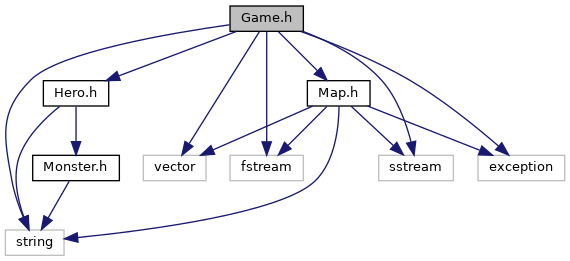
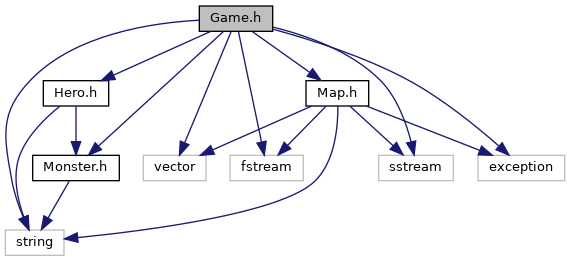
Update gh-pages to output generated at a4825b8

diff --git a/Game_8h_source.html b/Game_8h_source.html
@@ -79,85 +79,87 @@ $(function() {
 <div class="line"><a name="l00022"></a><span class="lineno">   22</span>&#160; </div>
 <div class="line"><a name="l00023"></a><span class="lineno">   23</span>&#160;<span class="preprocessor">#include &quot;<a class="code" href="Hero_8h.html">Hero.h</a>&quot;</span></div>
 <div class="line"><a name="l00024"></a><span class="lineno">   24</span>&#160;<span class="preprocessor">#include &quot;<a class="code" href="Map_8h.html">Map.h</a>&quot;</span></div>
-<div class="line"><a name="l00025"></a><span class="lineno">   25</span>&#160; </div>
-<div class="line"><a name="l00026"></a><span class="lineno"><a class="line" href="classGame.html">   26</a></span>&#160;<span class="keyword">class </span><a class="code" href="classGame.html">Game</a></div>
-<div class="line"><a name="l00027"></a><span class="lineno">   27</span>&#160;{</div>
-<div class="line"><a name="l00028"></a><span class="lineno">   28</span>&#160; <span class="keyword">private</span>:</div>
-<div class="line"><a name="l00029"></a><span class="lineno">   29</span>&#160;    <a class="code" href="classMap.html">Map</a> map;</div>
-<div class="line"><a name="l00030"></a><span class="lineno">   30</span>&#160; <span class="keyword">public</span>:</div>
-<div class="line"><a name="l00031"></a><span class="lineno">   31</span>&#160;    <a class="code" href="classGame.html">Game</a>(); <span class="comment">// Empty Game</span></div>
-<div class="line"><a name="l00032"></a><span class="lineno">   32</span>&#160;    <a class="code" href="classGame.html">Game</a>(std::string); <span class="comment">// Game with the Map initialized</span></div>
-<div class="line"><a name="l00033"></a><span class="lineno">   33</span>&#160;    <span class="keywordtype">void</span> setMap(<a class="code" href="classMap.html">Map</a>); <span class="comment">// Set the map</span></div>
-<div class="line"><a name="l00034"></a><span class="lineno">   34</span>&#160;    <span class="keywordtype">void</span> putHero(<a class="code" href="classHero.html">Hero</a>, <span class="keywordtype">int</span>, <span class="keywordtype">int</span>);</div>
-<div class="line"><a name="l00035"></a><span class="lineno">   35</span>&#160;    <span class="keywordtype">void</span> putMonster(<a class="code" href="classMonster.html">Monster</a>, <span class="keywordtype">int</span>, <span class="keywordtype">int</span>);</div>
-<div class="line"><a name="l00036"></a><span class="lineno">   36</span>&#160;    <span class="keywordtype">void</span> run();</div>
-<div class="line"><a name="l00037"></a><span class="lineno">   37</span>&#160; </div>
-<div class="line"><a name="l00038"></a><span class="lineno"><a class="line" href="classGame_1_1OccupiedException.html">   38</a></span>&#160;    <span class="keyword">class </span><a class="code" href="classGame_1_1OccupiedException.html">OccupiedException</a> : std::exception</div>
-<div class="line"><a name="l00039"></a><span class="lineno">   39</span>&#160;    {</div>
-<div class="line"><a name="l00040"></a><span class="lineno">   40</span>&#160;        <span class="keyword">public</span>:</div>
-<div class="line"><a name="l00045"></a><span class="lineno"><a class="line" href="classGame_1_1OccupiedException.html#a2d06f1e94c0d870fa9297d690495c455">   45</a></span>&#160;            <a class="code" href="classGame_1_1OccupiedException.html#a2d06f1e94c0d870fa9297d690495c455">OccupiedException</a>(){}</div>
-<div class="line"><a name="l00046"></a><span class="lineno">   46</span>&#160;    };</div>
-<div class="line"><a name="l00047"></a><span class="lineno"><a class="line" href="classGame_1_1AlreadyHasHeroException.html">   47</a></span>&#160;    <span class="keyword">class </span><a class="code" href="classGame_1_1AlreadyHasHeroException.html">AlreadyHasHeroException</a> : std::exception</div>
-<div class="line"><a name="l00048"></a><span class="lineno">   48</span>&#160;    {</div>
-<div class="line"><a name="l00049"></a><span class="lineno">   49</span>&#160;        <span class="keyword">public</span>:</div>
-<div class="line"><a name="l00054"></a><span class="lineno"><a class="line" href="classGame_1_1AlreadyHasHeroException.html#a661fe174e6ed027c3ebe5a5c13bf5c55">   54</a></span>&#160;            <a class="code" href="classGame_1_1AlreadyHasHeroException.html#a661fe174e6ed027c3ebe5a5c13bf5c55">AlreadyHasHeroException</a>(){}</div>
-<div class="line"><a name="l00055"></a><span class="lineno">   55</span>&#160;    };</div>
-<div class="line"><a name="l00056"></a><span class="lineno"><a class="line" href="classGame_1_1AlreadyHasUnitsException.html">   56</a></span>&#160;    <span class="keyword">class </span><a class="code" href="classGame_1_1AlreadyHasUnitsException.html">AlreadyHasUnitsException</a> : std::exception</div>
-<div class="line"><a name="l00057"></a><span class="lineno">   57</span>&#160;    {</div>
-<div class="line"><a name="l00058"></a><span class="lineno">   58</span>&#160;        <span class="keyword">public</span>:</div>
-<div class="line"><a name="l00064"></a><span class="lineno"><a class="line" href="classGame_1_1AlreadyHasUnitsException.html#a538b74874c5db6e2f7d916275cfe3e98">   64</a></span>&#160;            <a class="code" href="classGame_1_1AlreadyHasUnitsException.html#a538b74874c5db6e2f7d916275cfe3e98">AlreadyHasUnitsException</a>(){}</div>
-<div class="line"><a name="l00065"></a><span class="lineno">   65</span>&#160;    };</div>
-<div class="line"><a name="l00066"></a><span class="lineno">   66</span>&#160;    </div>
-<div class="line"><a name="l00067"></a><span class="lineno"><a class="line" href="classGame_1_1NotInitializedException.html">   67</a></span>&#160;    <span class="keyword">class </span><a class="code" href="classGame_1_1NotInitializedException.html">NotInitializedException</a> : std::exception</div>
-<div class="line"><a name="l00068"></a><span class="lineno">   68</span>&#160;    {</div>
-<div class="line"><a name="l00069"></a><span class="lineno">   69</span>&#160;        <span class="keyword">public</span>:</div>
-<div class="line"><a name="l00076"></a><span class="lineno"><a class="line" href="classGame_1_1NotInitializedException.html#a940350c425f5d08a07fdeabc3814e552">   76</a></span>&#160;            <a class="code" href="classGame_1_1NotInitializedException.html#a940350c425f5d08a07fdeabc3814e552">NotInitializedException</a>(){}</div>
-<div class="line"><a name="l00077"></a><span class="lineno">   77</span>&#160;    };</div>
-<div class="line"><a name="l00078"></a><span class="lineno">   78</span>&#160;    </div>
-<div class="line"><a name="l00079"></a><span class="lineno"><a class="line" href="classGame_1_1GameAlreadyStartedException.html">   79</a></span>&#160;    <span class="keyword">class </span><a class="code" href="classGame_1_1GameAlreadyStartedException.html">GameAlreadyStartedException</a> : std::exception</div>
-<div class="line"><a name="l00080"></a><span class="lineno">   80</span>&#160;    {</div>
-<div class="line"><a name="l00081"></a><span class="lineno">   81</span>&#160;        <span class="keyword">public</span>:</div>
-<div class="line"><a name="l00087"></a><span class="lineno"><a class="line" href="classGame_1_1GameAlreadyStartedException.html#a173b886c1b6d0adf4586974b896859bd">   87</a></span>&#160;            <a class="code" href="classGame_1_1GameAlreadyStartedException.html#a173b886c1b6d0adf4586974b896859bd">GameAlreadyStartedException</a>(){}</div>
-<div class="line"><a name="l00088"></a><span class="lineno">   88</span>&#160;    };</div>
-<div class="line"><a name="l00089"></a><span class="lineno">   89</span>&#160; </div>
-<div class="line"><a name="l00090"></a><span class="lineno">   90</span>&#160;};</div>
-<div class="line"><a name="l00091"></a><span class="lineno">   91</span>&#160; </div>
-<div class="line"><a name="l00092"></a><span class="lineno">   92</span>&#160;    <span class="comment">/* </span></div>
-<div class="line"><a name="l00093"></a><span class="lineno">   93</span>&#160;<span class="comment">    </span></div>
-<div class="line"><a name="l00094"></a><span class="lineno">   94</span>&#160;<span class="comment">Ha minden rendben van, elindit egy loop-ot egeszen addig, amig van meg Monster eletben. </span></div>
-<div class="line"><a name="l00095"></a><span class="lineno">   95</span>&#160;<span class="comment">Ha mindegyik monster le lett gyakva, akkor egy &quot;{hero.name} cleared the map. uzenetet kiir, es befejezi a futast.</span></div>
-<div class="line"><a name="l00096"></a><span class="lineno">   96</span>&#160;<span class="comment"></span> </div>
-<div class="line"><a name="l00097"></a><span class="lineno">   97</span>&#160;<span class="comment">Monstert viszont barmikor lehet feltenni, es egy lefutott run() utan akar ujra is lehet inditani.</span></div>
-<div class="line"><a name="l00098"></a><span class="lineno">   98</span>&#160;<span class="comment"></span> </div>
-<div class="line"><a name="l00099"></a><span class="lineno">   99</span>&#160;<span class="comment">A loop-ban north, south, east, west parancsokat var a stadard bemenetrol a program, amivel a Herot mozgatja, ha lehetseges (falra nem tud menni, palyarol nem lehet lemenni). </span></div>
-<div class="line"><a name="l00100"></a><span class="lineno">  100</span>&#160;<span class="comment">Ha olyan mezore lep a hero, ahol monsterek vannak, akkor azokkal megcsatazik. (A monsterekkel abban a sorrendben, ahogy a jatekhoz hozza lettek adva.)</span></div>
-<div class="line"><a name="l00101"></a><span class="lineno">  101</span>&#160;<span class="comment"></span> </div>
+<div class="line"><a name="l00025"></a><span class="lineno">   25</span>&#160;<span class="preprocessor">#include &quot;<a class="code" href="Monster_8h.html">Monster.h</a>&quot;</span></div>
+<div class="line"><a name="l00026"></a><span class="lineno">   26</span>&#160; </div>
+<div class="line"><a name="l00027"></a><span class="lineno"><a class="line" href="classGame.html">   27</a></span>&#160;<span class="keyword">class </span><a class="code" href="classGame.html">Game</a></div>
+<div class="line"><a name="l00028"></a><span class="lineno">   28</span>&#160;{</div>
+<div class="line"><a name="l00029"></a><span class="lineno">   29</span>&#160; <span class="keyword">private</span>:</div>
+<div class="line"><a name="l00030"></a><span class="lineno">   30</span>&#160;    <a class="code" href="classMap.html">Map</a> map;</div>
+<div class="line"><a name="l00031"></a><span class="lineno">   31</span>&#160; <span class="keyword">public</span>:</div>
+<div class="line"><a name="l00032"></a><span class="lineno">   32</span>&#160;    <a class="code" href="classGame.html">Game</a>(); <span class="comment">// Empty Game</span></div>
+<div class="line"><a name="l00033"></a><span class="lineno">   33</span>&#160;    <a class="code" href="classGame.html">Game</a>(std::string); <span class="comment">// Game with the Map initialized</span></div>
+<div class="line"><a name="l00034"></a><span class="lineno">   34</span>&#160;    <span class="keywordtype">void</span> setMap(<a class="code" href="classMap.html">Map</a>); <span class="comment">// Set the map</span></div>
+<div class="line"><a name="l00035"></a><span class="lineno">   35</span>&#160;    <span class="keywordtype">void</span> putHero(<a class="code" href="classHero.html">Hero</a>, <span class="keywordtype">int</span>, <span class="keywordtype">int</span>);</div>
+<div class="line"><a name="l00036"></a><span class="lineno">   36</span>&#160;    <span class="keywordtype">void</span> putMonster(<a class="code" href="classMonster.html">Monster</a>, <span class="keywordtype">int</span>, <span class="keywordtype">int</span>);</div>
+<div class="line"><a name="l00037"></a><span class="lineno">   37</span>&#160;    <span class="keywordtype">void</span> run();</div>
+<div class="line"><a name="l00038"></a><span class="lineno">   38</span>&#160; </div>
+<div class="line"><a name="l00039"></a><span class="lineno"><a class="line" href="classGame_1_1OccupiedException.html">   39</a></span>&#160;    <span class="keyword">class </span><a class="code" href="classGame_1_1OccupiedException.html">OccupiedException</a> : std::exception</div>
+<div class="line"><a name="l00040"></a><span class="lineno">   40</span>&#160;    {</div>
+<div class="line"><a name="l00041"></a><span class="lineno">   41</span>&#160;        <span class="keyword">public</span>:</div>
+<div class="line"><a name="l00046"></a><span class="lineno"><a class="line" href="classGame_1_1OccupiedException.html#a2d06f1e94c0d870fa9297d690495c455">   46</a></span>&#160;            <a class="code" href="classGame_1_1OccupiedException.html#a2d06f1e94c0d870fa9297d690495c455">OccupiedException</a>(){}</div>
+<div class="line"><a name="l00047"></a><span class="lineno">   47</span>&#160;    };</div>
+<div class="line"><a name="l00048"></a><span class="lineno"><a class="line" href="classGame_1_1AlreadyHasHeroException.html">   48</a></span>&#160;    <span class="keyword">class </span><a class="code" href="classGame_1_1AlreadyHasHeroException.html">AlreadyHasHeroException</a> : std::exception</div>
+<div class="line"><a name="l00049"></a><span class="lineno">   49</span>&#160;    {</div>
+<div class="line"><a name="l00050"></a><span class="lineno">   50</span>&#160;        <span class="keyword">public</span>:</div>
+<div class="line"><a name="l00055"></a><span class="lineno"><a class="line" href="classGame_1_1AlreadyHasHeroException.html#a661fe174e6ed027c3ebe5a5c13bf5c55">   55</a></span>&#160;            <a class="code" href="classGame_1_1AlreadyHasHeroException.html#a661fe174e6ed027c3ebe5a5c13bf5c55">AlreadyHasHeroException</a>(){}</div>
+<div class="line"><a name="l00056"></a><span class="lineno">   56</span>&#160;    };</div>
+<div class="line"><a name="l00057"></a><span class="lineno"><a class="line" href="classGame_1_1AlreadyHasUnitsException.html">   57</a></span>&#160;    <span class="keyword">class </span><a class="code" href="classGame_1_1AlreadyHasUnitsException.html">AlreadyHasUnitsException</a> : std::exception</div>
+<div class="line"><a name="l00058"></a><span class="lineno">   58</span>&#160;    {</div>
+<div class="line"><a name="l00059"></a><span class="lineno">   59</span>&#160;        <span class="keyword">public</span>:</div>
+<div class="line"><a name="l00065"></a><span class="lineno"><a class="line" href="classGame_1_1AlreadyHasUnitsException.html#a538b74874c5db6e2f7d916275cfe3e98">   65</a></span>&#160;            <a class="code" href="classGame_1_1AlreadyHasUnitsException.html#a538b74874c5db6e2f7d916275cfe3e98">AlreadyHasUnitsException</a>(){}</div>
+<div class="line"><a name="l00066"></a><span class="lineno">   66</span>&#160;    };</div>
+<div class="line"><a name="l00067"></a><span class="lineno">   67</span>&#160;    </div>
+<div class="line"><a name="l00068"></a><span class="lineno"><a class="line" href="classGame_1_1NotInitializedException.html">   68</a></span>&#160;    <span class="keyword">class </span><a class="code" href="classGame_1_1NotInitializedException.html">NotInitializedException</a> : std::exception</div>
+<div class="line"><a name="l00069"></a><span class="lineno">   69</span>&#160;    {</div>
+<div class="line"><a name="l00070"></a><span class="lineno">   70</span>&#160;        <span class="keyword">public</span>:</div>
+<div class="line"><a name="l00077"></a><span class="lineno"><a class="line" href="classGame_1_1NotInitializedException.html#a940350c425f5d08a07fdeabc3814e552">   77</a></span>&#160;            <a class="code" href="classGame_1_1NotInitializedException.html#a940350c425f5d08a07fdeabc3814e552">NotInitializedException</a>(){}</div>
+<div class="line"><a name="l00078"></a><span class="lineno">   78</span>&#160;    };</div>
+<div class="line"><a name="l00079"></a><span class="lineno">   79</span>&#160;    </div>
+<div class="line"><a name="l00080"></a><span class="lineno"><a class="line" href="classGame_1_1GameAlreadyStartedException.html">   80</a></span>&#160;    <span class="keyword">class </span><a class="code" href="classGame_1_1GameAlreadyStartedException.html">GameAlreadyStartedException</a> : std::exception</div>
+<div class="line"><a name="l00081"></a><span class="lineno">   81</span>&#160;    {</div>
+<div class="line"><a name="l00082"></a><span class="lineno">   82</span>&#160;        <span class="keyword">public</span>:</div>
+<div class="line"><a name="l00088"></a><span class="lineno"><a class="line" href="classGame_1_1GameAlreadyStartedException.html#a173b886c1b6d0adf4586974b896859bd">   88</a></span>&#160;            <a class="code" href="classGame_1_1GameAlreadyStartedException.html#a173b886c1b6d0adf4586974b896859bd">GameAlreadyStartedException</a>(){}</div>
+<div class="line"><a name="l00089"></a><span class="lineno">   89</span>&#160;    };</div>
+<div class="line"><a name="l00090"></a><span class="lineno">   90</span>&#160; </div>
+<div class="line"><a name="l00091"></a><span class="lineno">   91</span>&#160;};</div>
+<div class="line"><a name="l00092"></a><span class="lineno">   92</span>&#160; </div>
+<div class="line"><a name="l00093"></a><span class="lineno">   93</span>&#160;    <span class="comment">/* </span></div>
+<div class="line"><a name="l00094"></a><span class="lineno">   94</span>&#160;<span class="comment">    </span></div>
+<div class="line"><a name="l00095"></a><span class="lineno">   95</span>&#160;<span class="comment">Ha minden rendben van, elindit egy loop-ot egeszen addig, amig van meg Monster eletben. </span></div>
+<div class="line"><a name="l00096"></a><span class="lineno">   96</span>&#160;<span class="comment">Ha mindegyik monster le lett gyakva, akkor egy &quot;{hero.name} cleared the map. uzenetet kiir, es befejezi a futast.</span></div>
+<div class="line"><a name="l00097"></a><span class="lineno">   97</span>&#160;<span class="comment"></span> </div>
+<div class="line"><a name="l00098"></a><span class="lineno">   98</span>&#160;<span class="comment">Monstert viszont barmikor lehet feltenni, es egy lefutott run() utan akar ujra is lehet inditani.</span></div>
+<div class="line"><a name="l00099"></a><span class="lineno">   99</span>&#160;<span class="comment"></span> </div>
+<div class="line"><a name="l00100"></a><span class="lineno">  100</span>&#160;<span class="comment">A loop-ban north, south, east, west parancsokat var a stadard bemenetrol a program, amivel a Herot mozgatja, ha lehetseges (falra nem tud menni, palyarol nem lehet lemenni). </span></div>
+<div class="line"><a name="l00101"></a><span class="lineno">  101</span>&#160;<span class="comment">Ha olyan mezore lep a hero, ahol monsterek vannak, akkor azokkal megcsatazik. (A monsterekkel abban a sorrendben, ahogy a jatekhoz hozza lettek adva.)</span></div>
 <div class="line"><a name="l00102"></a><span class="lineno">  102</span>&#160;<span class="comment"></span> </div>
-<div class="line"><a name="l00103"></a><span class="lineno">  103</span>&#160;<span class="comment">Ha a hosunk meghal, akkor egy The hero died. kimenettel veget er a loop, es ebben az esetben Addig nem lehet ujra elinditani, amig egy masik Herot fel nem pakolunk ra.</span></div>
-<div class="line"><a name="l00104"></a><span class="lineno">  104</span>&#160;<span class="comment"></span> </div>
-<div class="line"><a name="l00105"></a><span class="lineno">  105</span>&#160;<span class="comment">Exceptions to implement for set and put methods.</span></div>
-<div class="line"><a name="l00106"></a><span class="lineno">  106</span>&#160;<span class="comment"></span> </div>
-<div class="line"><a name="l00107"></a><span class="lineno">  107</span>&#160;<span class="comment">Ha meg nincs terkep beallitva, akkor az elsot dobja a ket put. </span></div>
-<div class="line"><a name="l00108"></a><span class="lineno">  108</span>&#160;<span class="comment"></span> </div>
-<div class="line"><a name="l00109"></a><span class="lineno">  109</span>&#160;<span class="comment">};</span></div>
-<div class="line"><a name="l00110"></a><span class="lineno">  110</span>&#160;<span class="comment">*/</span></div>
-<div class="line"><a name="l00111"></a><span class="lineno">  111</span>&#160;<span class="preprocessor">#endif // GAME_HEADER</span></div>
+<div class="line"><a name="l00103"></a><span class="lineno">  103</span>&#160;<span class="comment"></span> </div>
+<div class="line"><a name="l00104"></a><span class="lineno">  104</span>&#160;<span class="comment">Ha a hosunk meghal, akkor egy The hero died. kimenettel veget er a loop, es ebben az esetben Addig nem lehet ujra elinditani, amig egy masik Herot fel nem pakolunk ra.</span></div>
+<div class="line"><a name="l00105"></a><span class="lineno">  105</span>&#160;<span class="comment"></span> </div>
+<div class="line"><a name="l00106"></a><span class="lineno">  106</span>&#160;<span class="comment">Exceptions to implement for set and put methods.</span></div>
+<div class="line"><a name="l00107"></a><span class="lineno">  107</span>&#160;<span class="comment"></span> </div>
+<div class="line"><a name="l00108"></a><span class="lineno">  108</span>&#160;<span class="comment">Ha meg nincs terkep beallitva, akkor az elsot dobja a ket put. </span></div>
+<div class="line"><a name="l00109"></a><span class="lineno">  109</span>&#160;<span class="comment"></span> </div>
+<div class="line"><a name="l00110"></a><span class="lineno">  110</span>&#160;<span class="comment">};</span></div>
+<div class="line"><a name="l00111"></a><span class="lineno">  111</span>&#160;<span class="comment">*/</span></div>
+<div class="line"><a name="l00112"></a><span class="lineno">  112</span>&#160;<span class="preprocessor">#endif // GAME_HEADER</span></div>
 </div><!-- fragment --></div><!-- contents -->
-<div class="ttc" id="aclassGame_1_1AlreadyHasHeroException_html"><div class="ttname"><a href="classGame_1_1AlreadyHasHeroException.html">Game::AlreadyHasHeroException</a></div><div class="ttdef"><b>Definition:</b> Game.h:47</div></div>
-<div class="ttc" id="aclassGame_1_1GameAlreadyStartedException_html_a173b886c1b6d0adf4586974b896859bd"><div class="ttname"><a href="classGame_1_1GameAlreadyStartedException.html#a173b886c1b6d0adf4586974b896859bd">Game::GameAlreadyStartedException::GameAlreadyStartedException</a></div><div class="ttdeci">GameAlreadyStartedException()</div><div class="ttdef"><b>Definition:</b> Game.h:87</div></div>
+<div class="ttc" id="aclassGame_1_1AlreadyHasHeroException_html"><div class="ttname"><a href="classGame_1_1AlreadyHasHeroException.html">Game::AlreadyHasHeroException</a></div><div class="ttdef"><b>Definition:</b> Game.h:48</div></div>
+<div class="ttc" id="aclassGame_1_1GameAlreadyStartedException_html_a173b886c1b6d0adf4586974b896859bd"><div class="ttname"><a href="classGame_1_1GameAlreadyStartedException.html#a173b886c1b6d0adf4586974b896859bd">Game::GameAlreadyStartedException::GameAlreadyStartedException</a></div><div class="ttdeci">GameAlreadyStartedException()</div><div class="ttdef"><b>Definition:</b> Game.h:88</div></div>
 <div class="ttc" id="aMap_8h_html"><div class="ttname"><a href="Map_8h.html">Map.h</a></div><div class="ttdoc">Map class.</div></div>
 <div class="ttc" id="aclassHero_html"><div class="ttname"><a href="classHero.html">Hero</a></div><div class="ttdef"><b>Definition:</b> Hero.h:20</div></div>
-<div class="ttc" id="aclassGame_1_1GameAlreadyStartedException_html"><div class="ttname"><a href="classGame_1_1GameAlreadyStartedException.html">Game::GameAlreadyStartedException</a></div><div class="ttdef"><b>Definition:</b> Game.h:79</div></div>
-<div class="ttc" id="aclassGame_1_1AlreadyHasHeroException_html_a661fe174e6ed027c3ebe5a5c13bf5c55"><div class="ttname"><a href="classGame_1_1AlreadyHasHeroException.html#a661fe174e6ed027c3ebe5a5c13bf5c55">Game::AlreadyHasHeroException::AlreadyHasHeroException</a></div><div class="ttdeci">AlreadyHasHeroException()</div><div class="ttdef"><b>Definition:</b> Game.h:54</div></div>
-<div class="ttc" id="aclassGame_1_1OccupiedException_html"><div class="ttname"><a href="classGame_1_1OccupiedException.html">Game::OccupiedException</a></div><div class="ttdef"><b>Definition:</b> Game.h:38</div></div>
-<div class="ttc" id="aclassGame_1_1AlreadyHasUnitsException_html"><div class="ttname"><a href="classGame_1_1AlreadyHasUnitsException.html">Game::AlreadyHasUnitsException</a></div><div class="ttdef"><b>Definition:</b> Game.h:56</div></div>
-<div class="ttc" id="aclassGame_1_1NotInitializedException_html"><div class="ttname"><a href="classGame_1_1NotInitializedException.html">Game::NotInitializedException</a></div><div class="ttdef"><b>Definition:</b> Game.h:67</div></div>
+<div class="ttc" id="aclassGame_1_1GameAlreadyStartedException_html"><div class="ttname"><a href="classGame_1_1GameAlreadyStartedException.html">Game::GameAlreadyStartedException</a></div><div class="ttdef"><b>Definition:</b> Game.h:80</div></div>
+<div class="ttc" id="aclassGame_1_1AlreadyHasHeroException_html_a661fe174e6ed027c3ebe5a5c13bf5c55"><div class="ttname"><a href="classGame_1_1AlreadyHasHeroException.html#a661fe174e6ed027c3ebe5a5c13bf5c55">Game::AlreadyHasHeroException::AlreadyHasHeroException</a></div><div class="ttdeci">AlreadyHasHeroException()</div><div class="ttdef"><b>Definition:</b> Game.h:55</div></div>
+<div class="ttc" id="aclassGame_1_1OccupiedException_html"><div class="ttname"><a href="classGame_1_1OccupiedException.html">Game::OccupiedException</a></div><div class="ttdef"><b>Definition:</b> Game.h:39</div></div>
+<div class="ttc" id="aclassGame_1_1AlreadyHasUnitsException_html"><div class="ttname"><a href="classGame_1_1AlreadyHasUnitsException.html">Game::AlreadyHasUnitsException</a></div><div class="ttdef"><b>Definition:</b> Game.h:57</div></div>
+<div class="ttc" id="aclassGame_1_1NotInitializedException_html"><div class="ttname"><a href="classGame_1_1NotInitializedException.html">Game::NotInitializedException</a></div><div class="ttdef"><b>Definition:</b> Game.h:68</div></div>
 <div class="ttc" id="aclassMonster_html"><div class="ttname"><a href="classMonster.html">Monster</a></div><div class="ttdef"><b>Definition:</b> Monster.h:19</div></div>
-<div class="ttc" id="aclassGame_1_1AlreadyHasUnitsException_html_a538b74874c5db6e2f7d916275cfe3e98"><div class="ttname"><a href="classGame_1_1AlreadyHasUnitsException.html#a538b74874c5db6e2f7d916275cfe3e98">Game::AlreadyHasUnitsException::AlreadyHasUnitsException</a></div><div class="ttdeci">AlreadyHasUnitsException()</div><div class="ttdef"><b>Definition:</b> Game.h:64</div></div>
-<div class="ttc" id="aclassGame_1_1NotInitializedException_html_a940350c425f5d08a07fdeabc3814e552"><div class="ttname"><a href="classGame_1_1NotInitializedException.html#a940350c425f5d08a07fdeabc3814e552">Game::NotInitializedException::NotInitializedException</a></div><div class="ttdeci">NotInitializedException()</div><div class="ttdef"><b>Definition:</b> Game.h:76</div></div>
+<div class="ttc" id="aclassGame_1_1AlreadyHasUnitsException_html_a538b74874c5db6e2f7d916275cfe3e98"><div class="ttname"><a href="classGame_1_1AlreadyHasUnitsException.html#a538b74874c5db6e2f7d916275cfe3e98">Game::AlreadyHasUnitsException::AlreadyHasUnitsException</a></div><div class="ttdeci">AlreadyHasUnitsException()</div><div class="ttdef"><b>Definition:</b> Game.h:65</div></div>
+<div class="ttc" id="aMonster_8h_html"><div class="ttname"><a href="Monster_8h.html">Monster.h</a></div><div class="ttdoc">Monster class.</div></div>
+<div class="ttc" id="aclassGame_1_1NotInitializedException_html_a940350c425f5d08a07fdeabc3814e552"><div class="ttname"><a href="classGame_1_1NotInitializedException.html#a940350c425f5d08a07fdeabc3814e552">Game::NotInitializedException::NotInitializedException</a></div><div class="ttdeci">NotInitializedException()</div><div class="ttdef"><b>Definition:</b> Game.h:77</div></div>
 <div class="ttc" id="aclassMap_html"><div class="ttname"><a href="classMap.html">Map</a></div><div class="ttdef"><b>Definition:</b> Map.h:23</div></div>
-<div class="ttc" id="aclassGame_html"><div class="ttname"><a href="classGame.html">Game</a></div><div class="ttdef"><b>Definition:</b> Game.h:26</div></div>
-<div class="ttc" id="aclassGame_1_1OccupiedException_html_a2d06f1e94c0d870fa9297d690495c455"><div class="ttname"><a href="classGame_1_1OccupiedException.html#a2d06f1e94c0d870fa9297d690495c455">Game::OccupiedException::OccupiedException</a></div><div class="ttdeci">OccupiedException()</div><div class="ttdoc">Falra nem kerulhet se Monster se Hero. Ugyanarra a szabad mezore azonban kerulhetnek egyszerre,...</div><div class="ttdef"><b>Definition:</b> Game.h:45</div></div>
+<div class="ttc" id="aclassGame_html"><div class="ttname"><a href="classGame.html">Game</a></div><div class="ttdef"><b>Definition:</b> Game.h:27</div></div>
+<div class="ttc" id="aclassGame_1_1OccupiedException_html_a2d06f1e94c0d870fa9297d690495c455"><div class="ttname"><a href="classGame_1_1OccupiedException.html#a2d06f1e94c0d870fa9297d690495c455">Game::OccupiedException::OccupiedException</a></div><div class="ttdeci">OccupiedException()</div><div class="ttdoc">Falra nem kerulhet se Monster se Hero. Ugyanarra a szabad mezore azonban kerulhetnek egyszerre,...</div><div class="ttdef"><b>Definition:</b> Game.h:46</div></div>
 <div class="ttc" id="aHero_8h_html"><div class="ttname"><a href="Hero_8h.html">Hero.h</a></div><div class="ttdoc">Hero class.</div></div>
 <!-- start footer part -->
 <hr class="footer"/><address class="footer"><small>

diff --git a/Game_8h.html b/Game_8h.html
@@ -79,20 +79,21 @@ $(function() {
 <code>#include &lt;exception&gt;</code><br />
 <code>#include &quot;<a class="el" href="Hero_8h_source.html">Hero.h</a>&quot;</code><br />
 <code>#include &quot;<a class="el" href="Map_8h_source.html">Map.h</a>&quot;</code><br />
+<code>#include &quot;<a class="el" href="Monster_8h_source.html">Monster.h</a>&quot;</code><br />
 </div><div class="textblock"><div class="dynheader">
 Include dependency graph for Game.h:</div>
 <div class="dyncontent">
 <div class="center"><img src="Game_8h__incl.png" border="0" usemap="#Game_8h" alt=""/></div>
 <map name="Game_8h" id="Game_8h">
-<area shape="rect" title="Game class." alt="" coords="230,5,303,32"/>
+<area shape="rect" title="Game class." alt="" coords="199,5,273,32"/>
 <area shape="rect" title=" " alt="" coords="5,229,64,256"/>
 <area shape="rect" title=" " alt="" coords="143,155,206,181"/>
 <area shape="rect" title=" " alt="" coords="230,155,303,181"/>
 <area shape="rect" title=" " alt="" coords="379,155,453,181"/>
 <area shape="rect" title=" " alt="" coords="478,155,565,181"/>
 <area shape="rect" href="Hero_8h.html" title="Hero class." alt="" coords="43,80,109,107"/>
-<area shape="rect" href="Map_8h.html" title="Map class." alt="" coords="307,80,370,107"/>
 <area shape="rect" href="Monster_8h.html" title="Monster class." alt="" coords="33,155,119,181"/>
+<area shape="rect" href="Map_8h.html" title="Map class." alt="" coords="306,80,369,107"/>
 </map>
 </div>
 </div>

diff --git a/Monster_8h.html b/Monster_8h.html
@@ -87,10 +87,10 @@ This graph shows which files directly or indirectly include this file:</div>
 <div class="dyncontent">
 <div class="center"><img src="Monster_8h__dep__incl.png" border="0" usemap="#Monster_8hdep" alt=""/></div>
 <map name="Monster_8hdep" id="Monster_8hdep">
-<area shape="rect" title="Monster class." alt="" coords="44,5,131,32"/>
-<area shape="rect" href="Hero_8h.html" title="Hero class." alt="" coords="9,80,75,107"/>
-<area shape="rect" href="JSON_8h.html" title=" " alt="" coords="99,80,166,107"/>
-<area shape="rect" href="Game_8h.html" title="Game class." alt="" coords="5,155,79,181"/>
+<area shape="rect" title="Monster class." alt="" coords="65,5,152,32"/>
+<area shape="rect" href="Hero_8h.html" title="Hero class." alt="" coords="5,80,71,107"/>
+<area shape="rect" href="Game_8h.html" title="Game class." alt="" coords="36,155,109,181"/>
+<area shape="rect" href="JSON_8h.html" title=" " alt="" coords="146,80,213,107"/>
 </map>
 </div>
 </div>
